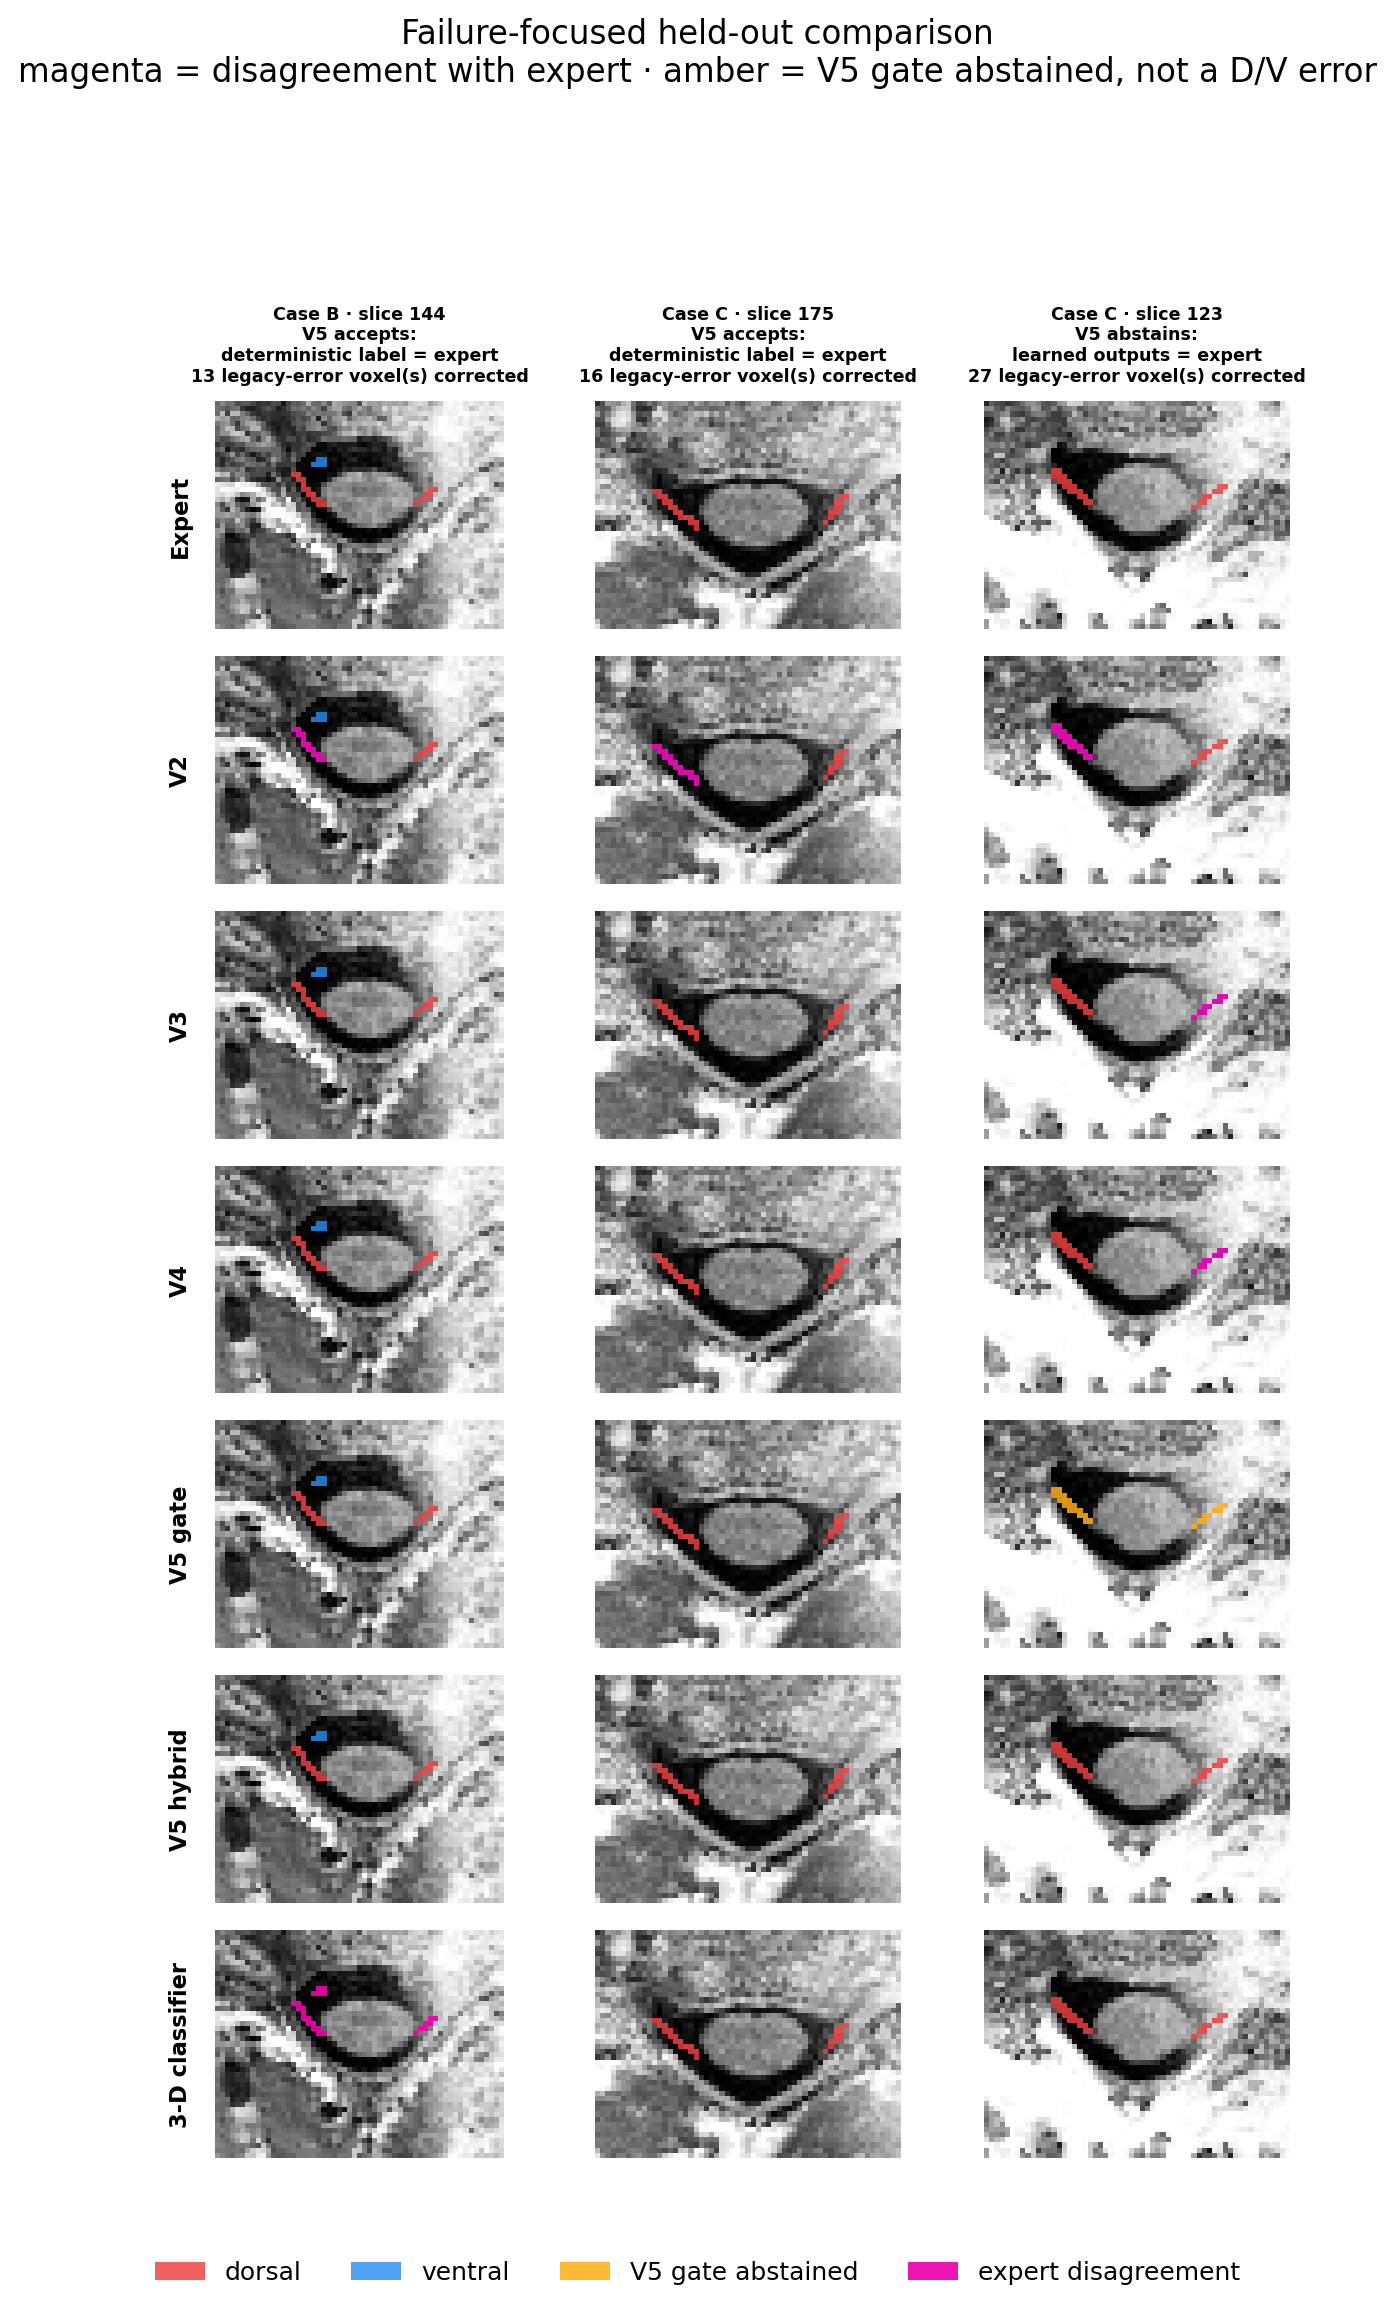
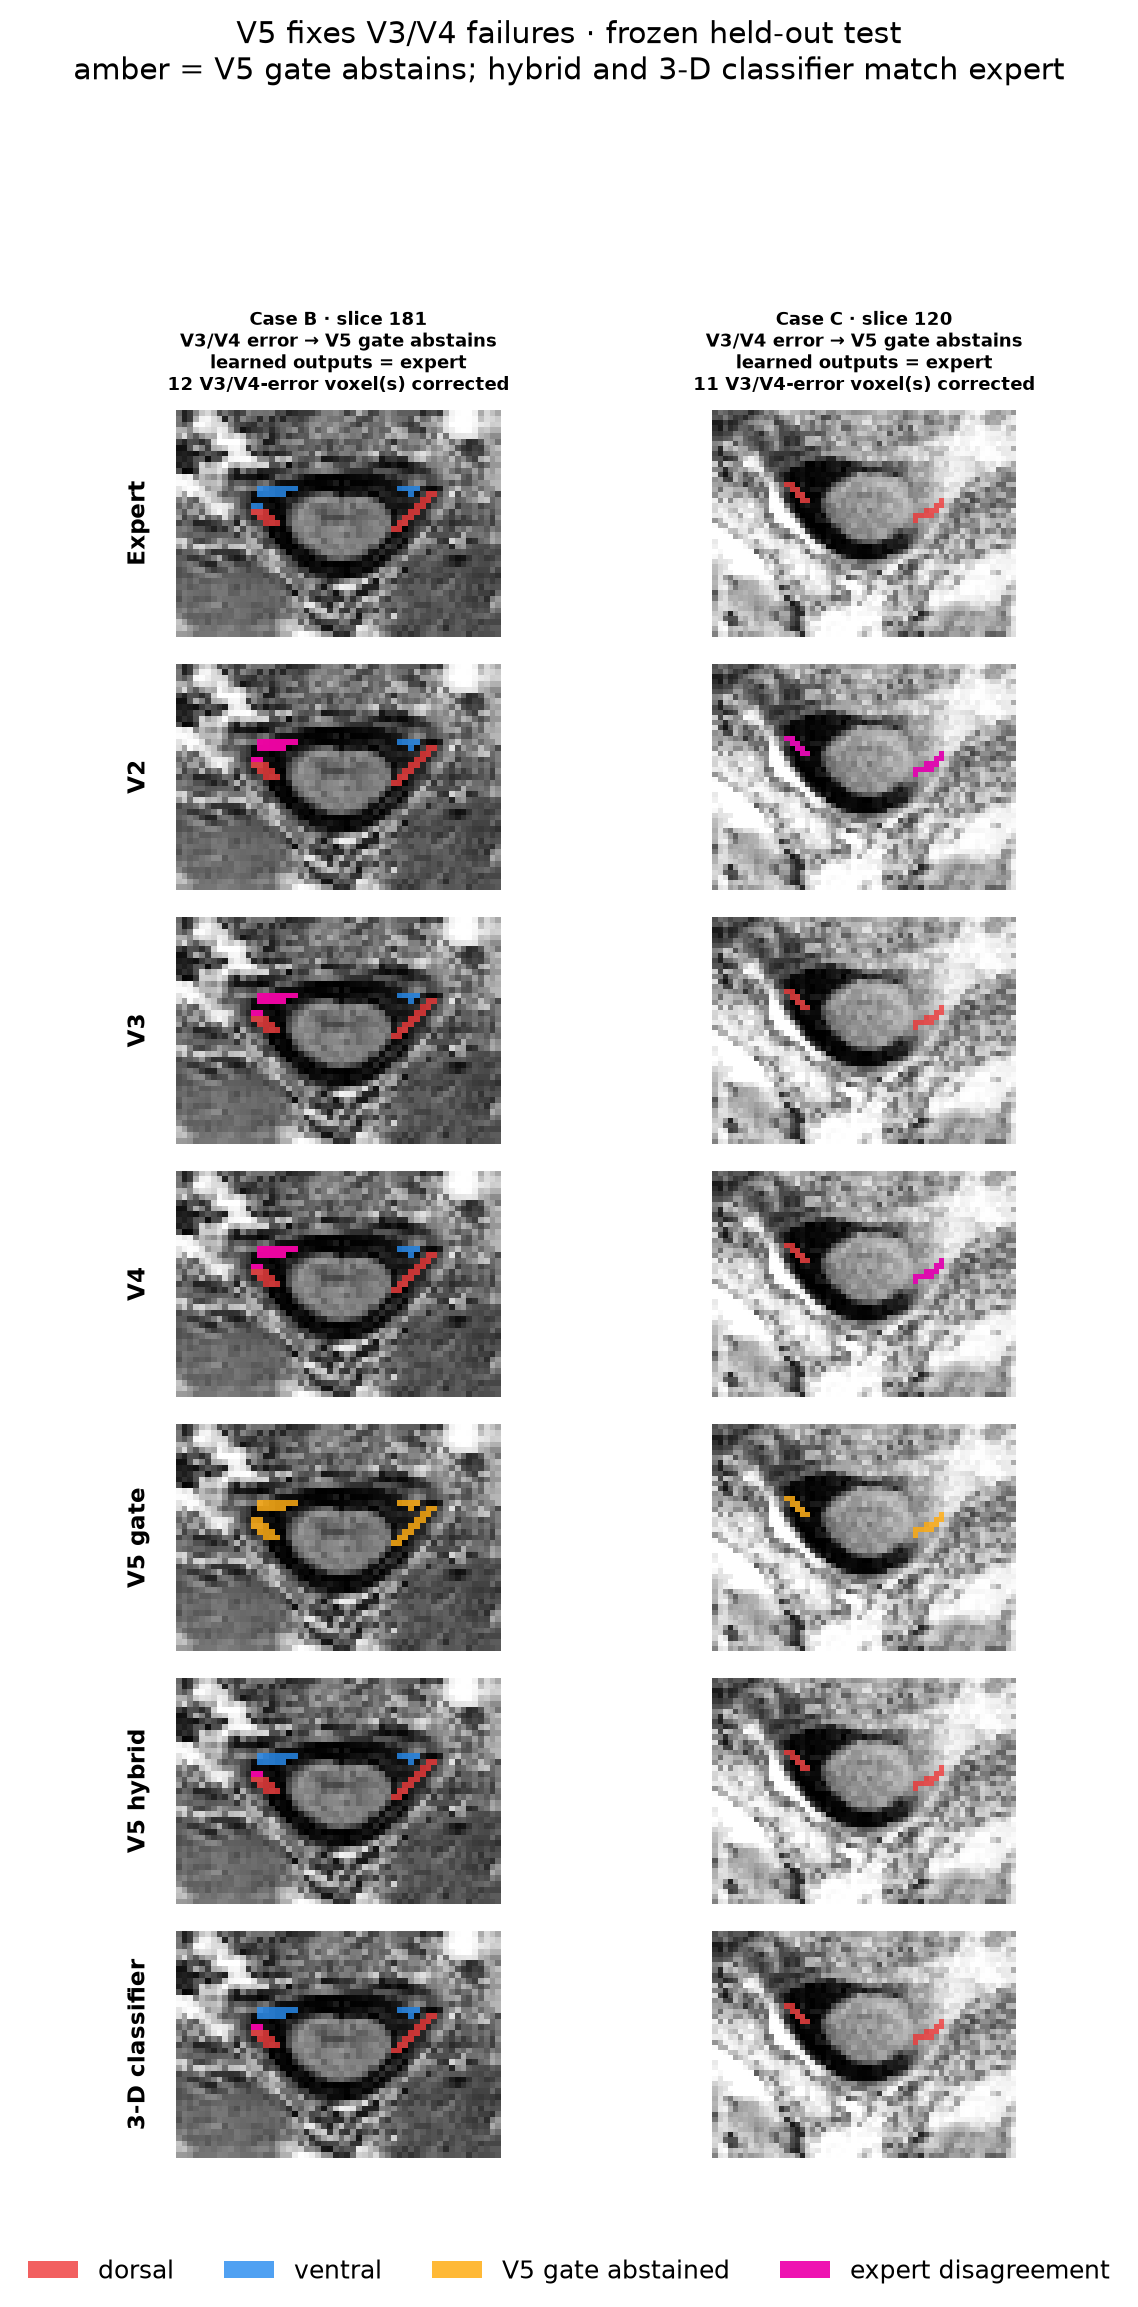
Fix validated V5 comparison visuals

diff --git a/postprocessing/dorsal_ventral/render_v2_v5_review.py b/postprocessing/dorsal_ventral/render_v2_v5_review.py
@@ -56,19 +56,97 @@ def _anatomy(path: Path) -> np.ndarray:
 
 def _case(case_directory: Path, alias: str) -> dict[str, Any]:
     directory = case_directory / alias.replace(" ", "_")
+    paths = {
+        "anatomy": directory / "anatomy.nii.gz",
+        "rootlets": directory / "rootlets.nii.gz",
+        "cord": directory / "cord.nii.gz",
+        "Expert": directory / "expert_dseg.nii.gz",
+        "V2": directory / "V2_dseg.nii.gz",
+        "V3": directory / "V3_dseg.nii.gz",
+        "V4": directory / "V4_dseg.nii.gz",
+        "V5 gate": directory / "V5_gate_dseg.nii.gz",
+        "V5 hybrid": directory / "V5_hybrid_dseg.nii.gz",
+        "3-D classifier": directory / "3-D_classifier_dseg.nii.gz",
+    }
+    reference = nib.load(paths["rootlets"])
+    for name, path in paths.items():
+        image = nib.load(path)
+        if image.shape != reference.shape or not np.allclose(
+            image.affine, reference.affine
+        ):
+            raise ValueError(
+                f"{alias}: {name} is not on the RootletSeg grid; refusing to render."
+            )
     return {
         "alias": alias,
-        "anatomy": _anatomy(directory / "anatomy.nii.gz"),
-        "rootlets": _data(directory / "rootlets.nii.gz"),
-        "cord": _data(directory / "cord.nii.gz"),
-        "Expert": _data(directory / "expert_dseg.nii.gz"),
-        "V2": _data(directory / "V2_dseg.nii.gz"),
-        "V3": _data(directory / "V3_dseg.nii.gz"),
-        "V4": _data(directory / "V4_dseg.nii.gz"),
-        "V5 gate": _data(directory / "V5_gate_dseg.nii.gz"),
-        "V5 hybrid": _data(directory / "V5_hybrid_dseg.nii.gz"),
-        "3-D classifier": _data(directory / "3-D_classifier_dseg.nii.gz"),
+        "anatomy": _anatomy(paths["anatomy"]),
+        **{name: _data(path) for name, path in paths.items() if name != "anatomy"},
     }
+
+
+def _validate_cases(summary: dict[str, Any], cases: list[dict[str, Any]]) -> None:
+    """Reject a review unless every full output is the RootletSeg partition.
+
+    A rendering is evidence.  This check prevents an unconstrained network
+    image, an offset grid, or the wrong split from being presented as the
+    frozen held-out comparison.
+    """
+
+    if len(summary["cases"]) != len(cases):
+        raise ValueError("Summary and review cases disagree.")
+
+    gate_support = 0
+    gate_correct = 0
+    full_support = 0
+    for record, case in zip(summary["cases"], cases):
+        if record["case"] != case["alias"]:
+            raise ValueError("Summary and review cases are in a different order.")
+        support = case["rootlets"] > 0
+        expert = case["Expert"]
+        if not np.array_equal(expert > 0, support):
+            raise ValueError(
+                f"{case['alias']}: expert labels do not partition RootletSeg."
+            )
+        for name in (*FULL_METHODS, "V5 gate"):
+            values = np.unique(case[name])
+            if not np.all(np.isin(values, (0, 1, 2))):
+                raise ValueError(
+                    f"{case['alias']}: {name} has unexpected label values."
+                )
+        for name in FULL_METHODS:
+            prediction = case[name]
+            if not np.array_equal(prediction > 0, support):
+                raise ValueError(
+                    f"{case['alias']}: {name} does not exactly partition RootletSeg."
+                )
+            accuracy = float(np.mean(prediction[support] == expert[support]))
+            expected = record["methods"][name]["voxel_accuracy"]
+            if not np.isclose(accuracy, expected, rtol=0.0, atol=1e-12):
+                raise ValueError(
+                    f"{case['alias']}: {name} accuracy ({accuracy}) disagrees with "
+                    f"the frozen summary ({expected})."
+                )
+        gate = case["V5 gate"]
+        if np.any((gate > 0) & ~support):
+            raise ValueError(
+                f"{case['alias']}: V5 gate labels voxels outside RootletSeg."
+            )
+        accepted = support & (gate > 0)
+        gate_support += int(np.count_nonzero(accepted))
+        gate_correct += int(np.count_nonzero(gate[accepted] == expert[accepted]))
+        full_support += int(np.count_nonzero(support))
+
+    expected = summary["v5_gate"]["metrics"]
+    coverage = gate_support / full_support
+    accuracy = gate_correct / gate_support
+    if not np.isclose(
+        coverage, expected["deterministic_voxel_coverage"], rtol=0.0, atol=1e-12
+    ):
+        raise ValueError("V5 gate coverage disagrees with the frozen summary.")
+    if not np.isclose(
+        accuracy, expected["deterministic_voxel_accuracy"], rtol=0.0, atol=1e-12
+    ):
+        raise ValueError("V5 gate accuracy disagrees with the frozen summary.")
 
 
 def _limits(anatomy: np.ndarray, rootlets: np.ndarray) -> tuple[float, float]:
@@ -153,20 +231,21 @@ def _improvement_slices(
     return sorted(selected)
 
 
-def _focus_slices(case: dict[str, Any]) -> list[tuple[int, str, int]]:
-    """Choose one accepted and one abstained V5 decision, when available.
+def _focus_slices(
+    case: dict[str, Any], maximum: int = 1, minimum_gap: int = 6
+) -> list[tuple[int, str, int]]:
+    """Choose an actual V5 improvement over both V3 and V4.
 
-    Every selected slice contains a legacy error.  The first selection shows
-    the deterministic route agreeing with the expert; the second shows the
-    abstention route where both complete learned outputs agree with the expert.
-    This makes the gate's role visible without treating an abstention as an
-    incorrect D/V label.
+    The visual deliberately excludes slices where only V2 is wrong.  It shows
+    the precise use case that the complete V5 paths improve: a V3/V4 error on
+    an ambiguous component, a safe V5-gate abstention, then an expert-matching
+    hybrid and classifier result.
     """
 
     support = case["rootlets"] > 0
     expert = case["Expert"]
     legacy_error = np.any(
-        np.stack([case[name] for name in LEGACY_METHODS]) != expert[None, ...],
+        np.stack([case[name] for name in ("V3", "V4")]) != expert[None, ...],
         axis=0,
     )
     gate = case["V5 gate"]
@@ -174,11 +253,7 @@ def _focus_slices(case: dict[str, Any]) -> list[tuple[int, str, int]]:
     classifier = case["3-D classifier"]
     routes = (
         (
-            "V5 accepts:\ndeterministic label = expert",
-            support & legacy_error & (gate > 0) & (gate == expert),
-        ),
-        (
-            "V5 abstains:\nlearned outputs = expert",
+            "V3/V4 error → V5 gate abstains\nlearned outputs = expert",
             support
             & legacy_error
             & (gate == 0)
@@ -189,24 +264,20 @@ def _focus_slices(case: dict[str, Any]) -> list[tuple[int, str, int]]:
     selected: list[tuple[int, str, int]] = []
     for label, mask in routes:
         scores = np.sum(mask, axis=(0, 1))
-        if np.any(scores):
-            z_index = int(np.argmax(scores))
-            selected.append((z_index, label, int(scores[z_index])))
+        candidates = [
+            int(index)
+            for index in np.argsort(-scores, kind="stable")
+            if scores[index] > 0
+        ]
+        for z_index in candidates:
+            if all(abs(z_index - previous[0]) >= minimum_gap for previous in selected):
+                selected.append((z_index, label, int(scores[z_index])))
+            if len(selected) == maximum:
+                break
 
-    # A case can have no example of one route. Keep the visual honest and
-    # still show its strongest complete V5 improvement instead of fabricating
-    # a gate decision category.
     if not selected:
-        scores = _improvement_scores(case)
-        if not np.any(scores):
-            raise ValueError(f"{case['alias']} has no V5 improvement slices.")
-        z_index = int(np.argmax(scores))
-        selected.append(
-            (
-                z_index,
-                "V5 hybrid:\nlabel = expert",
-                int(scores[z_index]),
-            )
+        raise ValueError(
+            f"{case['alias']} has no slice where V5 improves over both V3 and V4."
         )
     return selected
 
@@ -341,12 +412,14 @@ def render_improvement_grid(
     selected: list[tuple[dict[str, Any], dict[str, Any]]],
     output: Path,
 ) -> None:
-    selections = [(record, case, _focus_slices(case)) for record, case in selected]
+    selections = [
+        (record, case, _focus_slices(case, maximum=1)) for record, case in selected
+    ]
     columns = sum(len(items) for _record, _case, items in selections)
     figure, axes = plt.subplots(
         len(DISPLAY_ROWS),
         columns,
-        figsize=(2.4 * columns, 1.85 * len(DISPLAY_ROWS)),
+        figsize=(3.6 * columns, 1.85 * len(DISPLAY_ROWS)),
         squeeze=False,
     )
     offset = 0
@@ -370,7 +443,7 @@ def render_improvement_grid(
                 if row == 0:
                     axes[row, column].set_title(
                         f"{case['alias']} · slice {z_index}\n{reason}\n"
-                        f"{corrected_voxels} legacy-error voxel(s) corrected",
+                        f"{corrected_voxels} V3/V4-error voxel(s) corrected",
                         fontsize=7,
                         fontweight="bold",
                         pad=8,
@@ -394,9 +467,9 @@ def render_improvement_grid(
                 axes[row, offset].spines["left"].set_linewidth(1.5)
         offset += len(slices)
     figure.suptitle(
-        "Failure-focused held-out comparison\n"
-        "magenta = disagreement with expert · amber = V5 gate abstained, not a D/V error",
-        fontsize=13,
+        "V5 fixes V3/V4 failures · frozen held-out test\n"
+        "amber = V5 gate abstains; hybrid and 3-D classifier match expert",
+        fontsize=12,
     )
     figure.legend(
         handles=[
@@ -771,7 +844,7 @@ def render_improvement_sweep(
     output: Path,
     frames: int,
 ) -> None:
-    sequences = [_focus_slices(case) for _record, case in selected]
+    sequences = [_focus_slices(case, maximum=2) for _record, case in selected]
     images = [
         _improvement_gif_frame(
             selected,
@@ -946,6 +1019,7 @@ def run(
     summary = json.loads(summary_path.read_text())
     output_directory.mkdir(parents=True, exist_ok=True)
     cases = [_case(case_directory, record["case"]) for record in summary["cases"]]
+    _validate_cases(summary, cases)
     outputs: list[Path] = []
     for case in cases:
         output = output_directory / (
@@ -987,6 +1061,11 @@ def run(
         "split": summary["split"],
         "case_count": len(cases),
         "orientation": "RPI axial; display top is anterior",
+        "validation": (
+            "all images share the RootletSeg grid; expert, V2-V4, hybrid, and "
+            "3-D classifier exactly partition RootletSeg; per-case accuracies and "
+            "V5 gate coverage match the frozen summary"
+        ),
         "representative_policy": "median V5 hybrid held-out voxel accuracy",
         "representative_case": cases[representative_index]["alias"],
         "improvement_policy": (
@@ -994,9 +1073,8 @@ def run(
             "the best of V2-V4"
         ),
         "failure_focus_policy": (
-            "Each shown slice contains a V2-V4 error and is selected to show "
-            "either a correct V5 gate decision or a V5 gate abstention resolved "
-            "by both learned outputs."
+            "Each shown slice has a V3/V4 error, a V5-gate abstention, and both "
+            "complete V5 outputs matching expert."
         ),
         "improvement_cases": [case["alias"] for _record, case in improvement],
         "files": [path.name for path in outputs],

diff --git a/postprocessing/dorsal_ventral/test_render_v2_v5_review.py b/postprocessing/dorsal_ventral/test_render_v2_v5_review.py
@@ -1,0 +1,55 @@
+"""Tests for the frozen-test V2–V5 review guard."""
+
+from __future__ import annotations
+
+import copy
+import unittest
+
+import numpy as np
+
+from postprocessing.dorsal_ventral.render_v2_v5_review import (
+    FULL_METHODS,
+    _validate_cases,
+)
+
+
+class TestReviewValidation(unittest.TestCase):
+    def setUp(self) -> None:
+        support = np.asarray([[[1]], [[1]], [[0]]], dtype=np.uint8)
+        expert = np.asarray([[[1]], [[2]], [[0]]], dtype=np.uint8)
+        self.case = {
+            "alias": "Case A",
+            "rootlets": support,
+            "Expert": expert,
+            **{name: expert.copy() for name in FULL_METHODS},
+            "V5 gate": np.asarray([[[1]], [[0]], [[0]]], dtype=np.uint8),
+        }
+        self.summary = {
+            "cases": [
+                {
+                    "case": "Case A",
+                    "methods": {
+                        name: {"voxel_accuracy": 1.0} for name in FULL_METHODS
+                    },
+                }
+            ],
+            "v5_gate": {
+                "metrics": {
+                    "deterministic_voxel_coverage": 0.5,
+                    "deterministic_voxel_accuracy": 1.0,
+                }
+            },
+        }
+
+    def test_accepts_exact_rootletseg_partitions(self) -> None:
+        _validate_cases(self.summary, [self.case])
+
+    def test_rejects_classifier_voxels_outside_rootletseg(self) -> None:
+        case = copy.deepcopy(self.case)
+        case["3-D classifier"][2, 0, 0] = 1
+        with self.assertRaisesRegex(ValueError, "does not exactly partition RootletSeg"):
+            _validate_cases(self.summary, [case])
+
+
+if __name__ == "__main__":
+    unittest.main()

diff --git a/postprocessing/dorsal_ventral/results/v5/README.md b/postprocessing/dorsal_ventral/results/v5/README.md
@@ -12,9 +12,8 @@
   dataset, plus cohort QC and a CSV summary.
 - `artifacts/v2-v5/`: accuracy and speed charts, three anonymized method
   montages, shared cord-input QC, a V5 decision-path diagram, and
-  failure-focused grids/GIFs. The latter show slices with a V2-V4 error and
-  distinguish a correct V5 gate decision from an amber V5 abstention resolved
-  by the learned outputs.
+  failure-focused grids/GIFs. The latter only show V3/V4 errors where the
+  amber V5 gate abstains and both learned outputs match the expert label.
 - `model/model_manifest.json`: selected architecture and checkpoint checksum.
 
 All axial displays are RPI with anterior at the top; blue is ventral and red is
